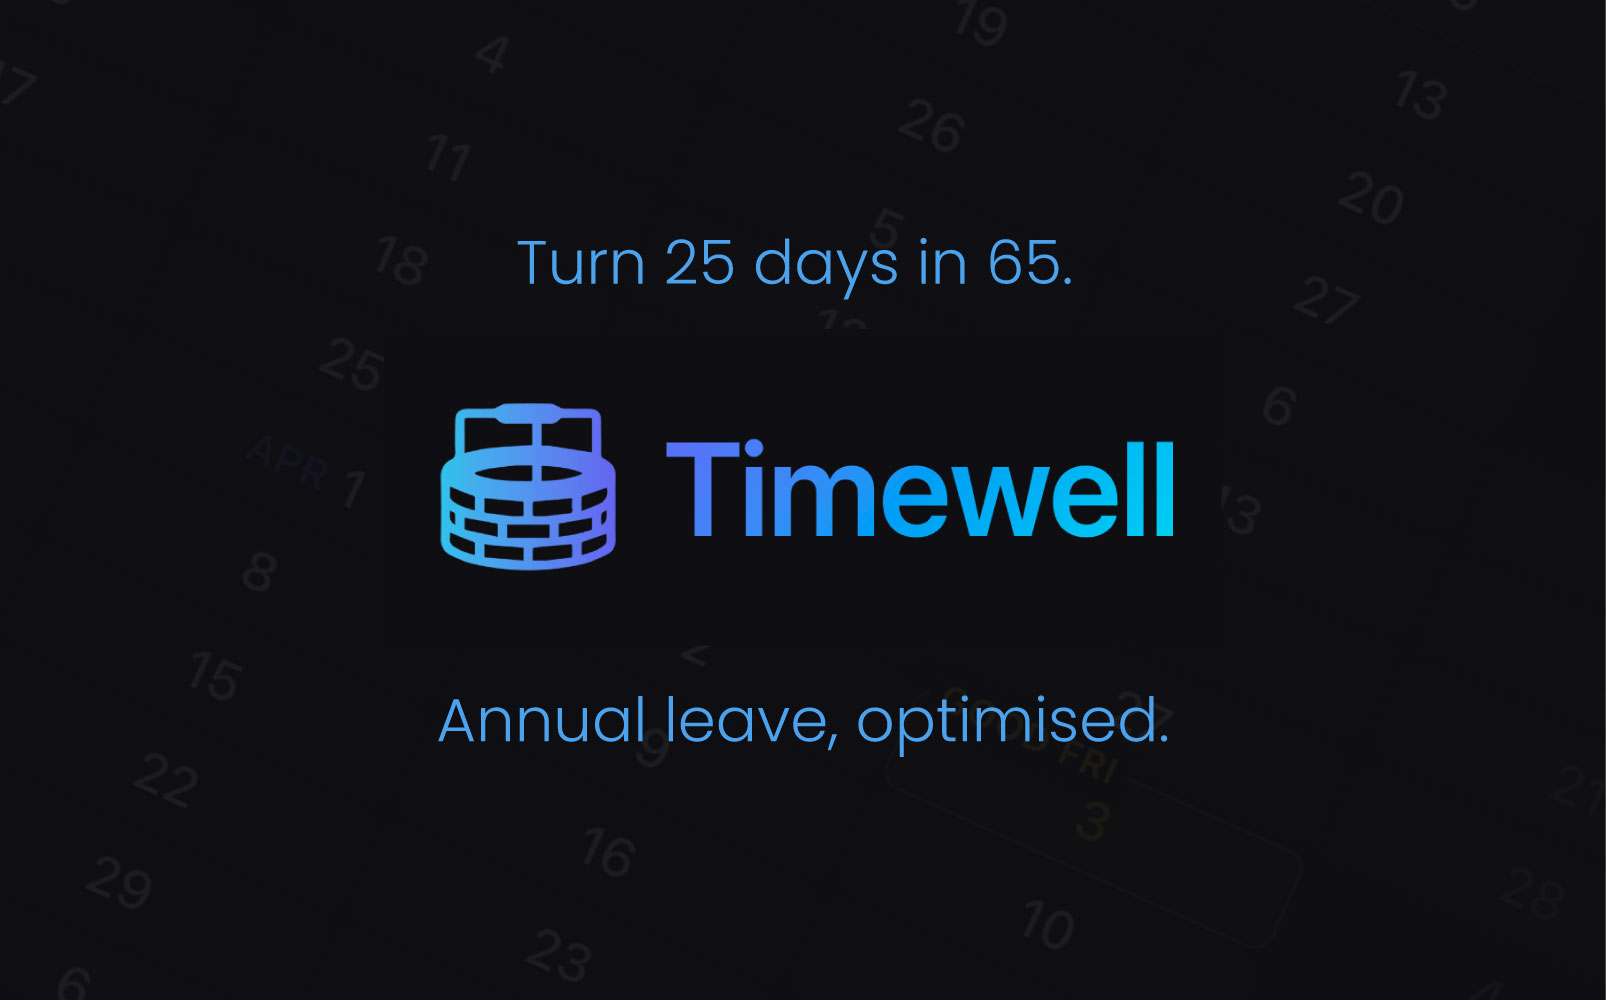
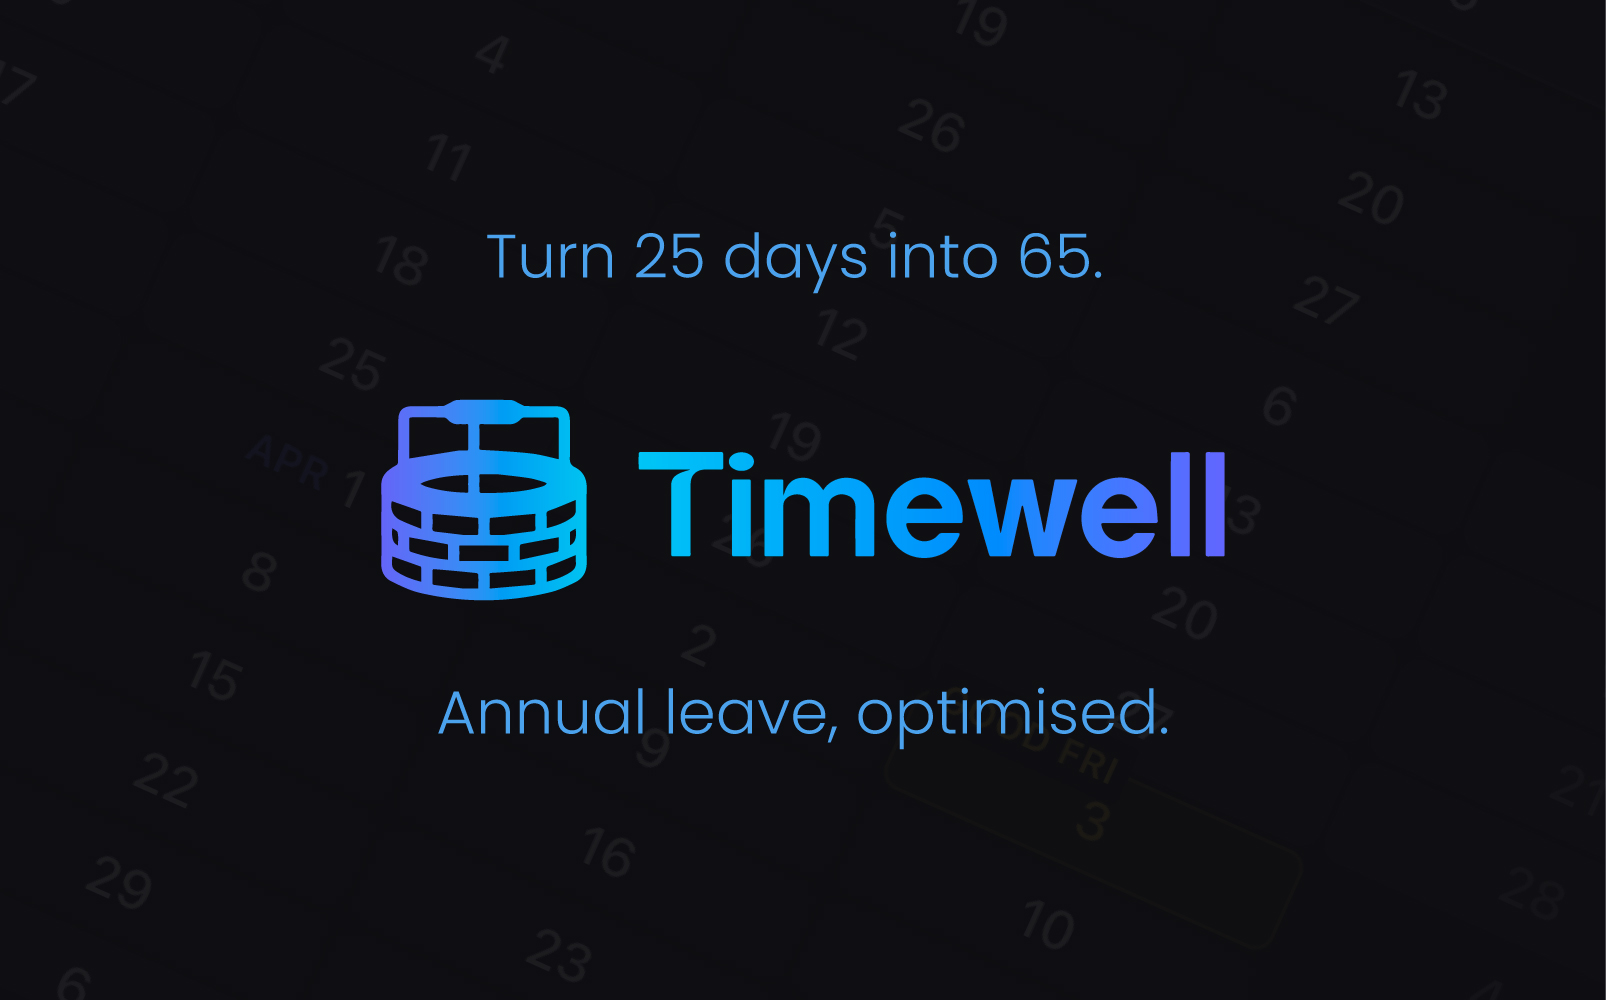
Improve advanced settings and leave year customization
- Fix bank holiday toggle: checkbox now means "AL required for bank holidays"
- Implement custom leave year start: calendar shows 365 days + 2 weeks from start date
- Update year badge to show date range for non-January starts (e.g., "Apr 2026 – Mar 2027")
- Add scrolling to settings modal for longer content
- Improve toggle switch styling with card-style container
- Replace header with main_logo.png (includes Timewell text)
- Add new logo assets

Changed region(s): [[0.2179, 0.372, 0.7783, 0.62], [0.2491, 0.682, 0.7161, 0.744], [0.3113, 0.217, 0.6849, 0.31]]

diff --git a/app.js b/app.js
@@ -340,8 +340,8 @@ function showSetup() {
         });
 
         // Advanced settings
-        document.getElementById('include-bank-holidays').checked =
-            state.config.bankHolidaysFree !== false; // Default to true
+        document.getElementById('bank-holidays-use-al').checked =
+            state.config.bankHolidaysUseAL === true; // Default to false (unchecked)
         document.getElementById('leave-year-month').value =
             state.config.leaveYearMonth || 0;
         updateDayOptions();
@@ -354,7 +354,16 @@ function showApp() {
     elements.setupOverlay.classList.add('hidden');
     elements.app.classList.remove('hidden');
 
-    elements.yearDisplay.textContent = state.config.year;
+    // Update year display - show range if leave year doesn't start in January
+    const leaveYearMonth = state.config.leaveYearMonth || 0;
+    if (leaveYearMonth === 0) {
+        elements.yearDisplay.textContent = state.config.year;
+    } else {
+        const startMonth = MONTH_ABBREV[leaveYearMonth];
+        const endMonth = MONTH_ABBREV[(leaveYearMonth + 11) % 12];
+        const endYear = state.config.year + 1;
+        elements.yearDisplay.textContent = `${startMonth} ${state.config.year} – ${endMonth} ${endYear}`;
+    }
 
     renderCalendar();
     renderMiniYear();
@@ -403,7 +412,7 @@ function handleSetupSubmit(e) {
     }
 
     // Advanced settings
-    const bankHolidaysFree = document.getElementById('include-bank-holidays').checked;
+    const bankHolidaysUseAL = document.getElementById('bank-holidays-use-al').checked;
     const leaveYearMonth = parseInt(document.getElementById('leave-year-month').value);
     const leaveYearDay = parseInt(document.getElementById('leave-year-day').value);
 
@@ -412,7 +421,7 @@ function handleSetupSubmit(e) {
         year,
         region,
         workingDays,
-        bankHolidaysFree,
+        bankHolidaysUseAL,
         leaveYearMonth,
         leaveYearDay
     };
@@ -518,7 +527,7 @@ function handleStartOver() {
     });
 
     // Reset advanced settings
-    document.getElementById('include-bank-holidays').checked = true;
+    document.getElementById('bank-holidays-use-al').checked = false;
     document.getElementById('leave-year-month').value = 0;
     updateDayOptions();
     document.getElementById('leave-year-day').value = 1;
@@ -559,15 +568,21 @@ function renderCalendar() {
     elements.calendar.innerHTML = '';
 
     const year = state.config.year;
+    const leaveYearMonth = state.config.leaveYearMonth || 0;
+    const leaveYearDay = state.config.leaveYearDay || 1;
+
     const today = new Date();
     const todayStr = formatDate(today);
-    const bankHolidays = getBankHolidays(); // Full data with names
-    const bankHolidayMap = {};
-    bankHolidays.forEach(h => { bankHolidayMap[h.date] = h.name; });
 
-    // Also get next year's bank holidays for January display
-    const nextYearHolidays = getBankHolidaysForYear(year + 1);
-    nextYearHolidays.forEach(h => { bankHolidayMap[h.date] = h.name; });
+    // Get bank holidays for the relevant years
+    const bankHolidayMap = {};
+    // We may need holidays from the selected year and the next year
+    getBankHolidaysForYear(year).forEach(h => { bankHolidayMap[h.date] = h.name; });
+    getBankHolidaysForYear(year + 1).forEach(h => { bankHolidayMap[h.date] = h.name; });
+    // Also previous year if leave year starts later in the year
+    if (leaveYearMonth > 0) {
+        getBankHolidaysForYear(year - 1).forEach(h => { bankHolidayMap[h.date] = h.name; });
+    }
 
     // Weekday header
     const weekdayHeader = document.createElement('div');
@@ -584,21 +599,20 @@ function renderCalendar() {
     const weeksContainer = document.createElement('div');
     weeksContainer.className = 'weeks-container';
 
-    // Get first day of year and last day of year
-    const firstDayOfYear = new Date(year, 0, 1);
-    const lastDayOfYear = new Date(year, 11, 31);
+    // Calculate leave year start date
+    const leaveYearStart = new Date(year, leaveYearMonth, leaveYearDay);
 
-    // Calculate end date: 2 weeks after Dec 31, ending on a Sunday
-    let extendedEnd = new Date(lastDayOfYear);
-    extendedEnd.setDate(extendedEnd.getDate() + 14); // Add 2 weeks
+    // Calculate end date: 365 days + 2 weeks from start, ending on a Sunday
+    let extendedEnd = new Date(leaveYearStart);
+    extendedEnd.setDate(extendedEnd.getDate() + 365 + 14); // Add 365 days + 2 weeks
     // Extend to the next Sunday if not already on Sunday
     const extendedDayOfWeek = extendedEnd.getDay();
     if (extendedDayOfWeek !== 0) {
         extendedEnd.setDate(extendedEnd.getDate() + (7 - extendedDayOfWeek));
     }
 
-    // Find the Monday of the week containing Jan 1
-    let currentDate = new Date(firstDayOfYear);
+    // Find the Monday of the week containing the leave year start
+    let currentDate = new Date(leaveYearStart);
     const dayOfWeek = currentDate.getDay();
     const mondayOffset = dayOfWeek === 0 ? -6 : 1 - dayOfWeek;
     currentDate.setDate(currentDate.getDate() + mondayOffset);
@@ -609,7 +623,7 @@ function renderCalendar() {
         weekRow.className = 'week-row';
 
         for (let i = 0; i < 7; i++) {
-            const tile = createDayTile(currentDate, year, todayStr, bankHolidayMap);
+            const tile = createDayTileForLeaveYear(currentDate, leaveYearStart, todayStr, bankHolidayMap);
             weekRow.appendChild(tile);
             currentDate.setDate(currentDate.getDate() + 1);
         }
@@ -692,6 +706,92 @@ function createDayTile(date, year, todayStr, bankHolidayMap) {
 
     // Show month name on 1st of each month
     if (dayOfMonth === 1) {
+        const monthIndicator = document.createElement('span');
+        monthIndicator.className = 'month-indicator';
+        monthIndicator.textContent = MONTH_ABBREV[month];
+        content.appendChild(monthIndicator);
+    }
+
+    const dayNumber = document.createElement('span');
+    dayNumber.className = 'day-number';
+    dayNumber.textContent = dayOfMonth;
+    content.appendChild(dayNumber);
+
+    tile.appendChild(content);
+
+    return tile;
+}
+
+function createDayTileForLeaveYear(date, leaveYearStart, todayStr, bankHolidayMap) {
+    const tile = document.createElement('div');
+    tile.className = 'day-tile';
+
+    const dateStr = formatDate(date);
+    const dayOfWeek = date.getDay();
+    const dayOfMonth = date.getDate();
+    const month = date.getMonth();
+    const dateYear = date.getFullYear();
+    const leaveYearStartStr = formatDate(leaveYearStart);
+
+    // For dates before the leave year start week, show as empty
+    // (These are days at the start of the first week before the leave year begins)
+    if (dateStr < leaveYearStartStr) {
+        tile.classList.add('empty');
+        tile.innerHTML = '<span class="day-number"></span>';
+        return tile;
+    }
+
+    tile.dataset.date = dateStr;
+
+    // Calculate months since leave year start for alternating colors
+    const monthsSinceStart = (dateYear - leaveYearStart.getFullYear()) * 12 + month - leaveYearStart.getMonth();
+    if (monthsSinceStart % 2 === 0) {
+        tile.classList.add('month-even');
+    } else {
+        tile.classList.add('month-odd');
+    }
+
+    // Weekend
+    const isWeekend = dayOfWeek === 0 || dayOfWeek === 6;
+    if (isWeekend) {
+        tile.classList.add('weekend');
+    }
+
+    // Non-working day
+    if (!state.config.workingDays.includes(dayOfWeek)) {
+        tile.classList.add('non-working');
+    }
+
+    // Today
+    if (dateStr === todayStr) {
+        tile.classList.add('today');
+    }
+
+    // Bank holiday
+    const bankHolidayName = bankHolidayMap[dateStr];
+    if (bankHolidayName) {
+        tile.classList.add('bank-holiday');
+
+        // Add bank holiday label
+        const holidayLabel = document.createElement('span');
+        holidayLabel.className = 'bank-holiday-label';
+        // Shorten the name for display
+        holidayLabel.textContent = shortenHolidayName(bankHolidayName);
+        tile.appendChild(holidayLabel);
+    }
+
+    // Leave block
+    const leaveBlock = getLeaveBlockForDate(dateStr);
+    if (leaveBlock) {
+        applyLeaveStyles(tile, dateStr, leaveBlock);
+    }
+
+    // Content
+    const content = document.createElement('div');
+    content.className = 'day-content';
+
+    // Show month name on 1st of each month, or on leave year start day
+    if (dayOfMonth === 1 || dateStr === leaveYearStartStr) {
         const monthIndicator = document.createElement('span');
         monthIndicator.className = 'month-indicator';
         monthIndicator.textContent = MONTH_ABBREV[month];
@@ -1146,7 +1246,9 @@ function calculateROIWithConnectedWeekends(startDate, endDate) {
     const allBankHolidays = [...bankHolidays, ...nextYearHolidays.map(h => h.date)];
 
     const { workingDays } = state.config;
-    const bankHolidaysFree = state.config.bankHolidaysFree !== false; // Default to true
+    // If bankHolidaysUseAL is true, bank holidays require AL (not free)
+    // If bankHolidaysUseAL is false/undefined, bank holidays are free
+    const bankHolidaysFree = !state.config.bankHolidaysUseAL;
 
     // Expand range to include connected weekends
     let expandedStart = parseDate(startDate);
@@ -1204,7 +1306,7 @@ function calculateROIWithConnectedWeekends(startDate, endDate) {
             const isBankHoliday = allBankHolidays.includes(dateStr);
 
             // If bank holidays are free, don't count them as leave days
-            // If bank holidays are NOT free, they count as leave days if they're working days
+            // If bank holidays require AL, they count as leave days if they're working days
             if (isWorkingDay) {
                 if (isBankHoliday && bankHolidaysFree) {
                     // Bank holiday is free, don't count

diff --git a/styles.css b/styles.css
@@ -131,6 +131,8 @@ body {
     padding: var(--space-lg);
     max-width: 440px;
     width: 100%;
+    max-height: 90vh;
+    overflow-y: auto;
     animation: slideUp var(--transition-normal);
 }
 
@@ -531,15 +533,17 @@ body {
 .header-left {
     display: flex;
     align-items: center;
-    gap: var(--space-sm);
-}
-
-.header-left .year-badge {
-    margin-left: var(--space-sm);
+    gap: var(--space-md);
 }
 
 .logo-icon {
     height: 32px;
+    width: auto;
+    object-fit: contain;
+}
+
+.logo-main {
+    height: 28px;
     width: auto;
     object-fit: contain;
 }
@@ -1748,16 +1752,27 @@ body.leave-dragging * {
 }
 
 .advanced-hint {
-    margin-top: var(--space-xs);
-    margin-left: 0;
+    margin-top: var(--space-sm);
+    margin-left: var(--space-sm);
+    font-size: 0.75rem;
 }
 
 /* Toggle Switch */
 .toggle-label {
     display: flex;
     align-items: center;
-    gap: var(--space-sm);
+    gap: var(--space-md);
     cursor: pointer;
+    padding: var(--space-sm) var(--space-md);
+    background: var(--bg-secondary);
+    border: 1px solid var(--glass-border);
+    border-radius: var(--radius-md);
+    transition: all var(--transition-fast);
+}
+
+.toggle-label:hover {
+    border-color: var(--accent-primary);
+    background: var(--bg-tertiary);
 }
 
 .toggle-label input[type="checkbox"] {
@@ -1765,15 +1780,16 @@ body.leave-dragging * {
     opacity: 0;
     width: 0;
     height: 0;
+    pointer-events: none;
 }
 
 .toggle-switch {
     position: relative;
-    width: 40px;
-    height: 22px;
-    background: var(--bg-tertiary);
+    width: 44px;
+    height: 24px;
+    background: var(--bg-primary);
     border: 1px solid var(--glass-border);
-    border-radius: 11px;
+    border-radius: 12px;
     transition: all var(--transition-fast);
     flex-shrink: 0;
 }
@@ -1781,8 +1797,8 @@ body.leave-dragging * {
 .toggle-switch::after {
     content: '';
     position: absolute;
-    top: 2px;
-    left: 2px;
+    top: 3px;
+    left: 3px;
     width: 16px;
     height: 16px;
     background: var(--text-muted);
@@ -1796,13 +1812,18 @@ body.leave-dragging * {
 }
 
 .toggle-label input:checked + .toggle-switch::after {
-    left: 20px;
+    left: 23px;
     background: white;
 }
 
 .toggle-text {
     font-size: 0.875rem;
     color: var(--text-secondary);
+    flex: 1;
+}
+
+.toggle-label:has(input:checked) .toggle-text {
+    color: var(--text-primary);
 }
 
 /* Leave Year Start Selects */

diff --git a/index.html b/index.html
@@ -119,11 +119,11 @@
                     <div class="advanced-content hidden" id="advanced-content">
                         <div class="form-group">
                             <label class="toggle-label">
-                                <input type="checkbox" id="include-bank-holidays" checked>
+                                <input type="checkbox" id="bank-holidays-use-al">
                                 <span class="toggle-switch"></span>
-                                <span class="toggle-text">Bank holidays are free (don't count as leave)</span>
+                                <span class="toggle-text">Bank holidays require annual leave</span>
                             </label>
-                            <p class="hint advanced-hint">Turn off if you must use annual leave for bank holidays</p>
+                            <p class="hint advanced-hint">Check this if you must use AL to take bank holidays off</p>
                         </div>
 
                         <div class="form-group">
@@ -234,8 +234,7 @@
         <!-- Header -->
         <header id="header">
             <div class="header-left">
-                <img src="twAsset_logo.png" alt="Timewell" class="logo-icon">
-                <h1 class="logo">Timewell</h1>
+                <img src="main_logo.png" alt="Timewell" class="logo-main">
                 <span id="year-display" class="year-badge"></span>
             </div>
             <div class="header-right">
